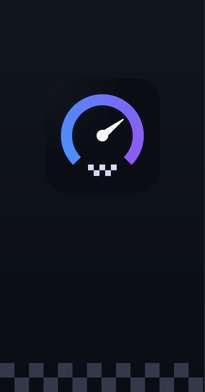
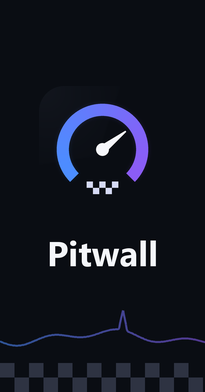
Instalador: telas de boas-vindas/fim com a marca, fundo com traço de telemetria e menos cliques
- painel com logo e nome, fundo próprio, textos curtos (PT/EN), sem 'pronto para instalar'
- fecha WirelessBattery/headsetcontrol/PresentMon por nome antes de copiar (o filtro por caminho
  falhava num PowerShell 32-bit e o leitor de bateria travava a atualização)
- o app também encerra leitores de bateria órfãos ao iniciar e mata a árvore inteira no timeout
- modo /DPreview para conferir o visual sem instalar nada

diff --git a/installer/art/make_art.py b/installer/art/make_art.py
@@ -1,48 +1,85 @@
-"""Imagens do instalador (Inno Setup): painel lateral das telas de boas-vindas/fim e ícone do cabeçalho.
-Geradas a partir da logo (assets/logo/pitwall-512.png). Uso: python installer/art/make_art.py (requer Pillow)."""
+"""Imagens do instalador (Inno Setup 6.7+), geradas a partir da logo (assets/logo/pitwall-512.png).
+- wizard-*.png: painel lateral das telas de boas-vindas e de conclusão (pôster com logo e nome)
+- wizard-small-*.png: ícone do cabeçalho das demais telas
+- back.png: fundo da janela inteira (traço de telemetria bem discreto no rodapé)
+Uso: python installer/art/make_art.py   (requer Pillow)"""
+import math
 import os
-from PIL import Image, ImageDraw
+from PIL import Image, ImageDraw, ImageFont, ImageFilter
 
 HERE = os.path.dirname(os.path.abspath(__file__))
 ROOT = os.path.dirname(os.path.dirname(HERE))
 LOGO = Image.open(os.path.join(ROOT, "assets", "logo", "pitwall-512.png")).convert("RGBA")
+FONT = os.path.join(os.environ.get("WINDIR", r"C:\Windows"), "Fonts", "segoeuib.ttf")
 BG = (10, 13, 19)
-BG2 = (17, 21, 30)
-CHECK = (52, 57, 74)  # quadriculado discreto: textura, não destaque
+BLUE = (76, 141, 255)
+VIOLET = (139, 92, 246)
+CHECK = (46, 51, 66)
+
+
+def lerp(a, b, t):
+    return tuple(round(a[i] + (b[i] - a[i]) * t) for i in range(3))
+
+
+def trace(d, W, y0, amp, width, alpha_img=None):
+    """Linha de frametime estilizada (picos pequenos e um grande), gradiente azul → violeta."""
+    pts = []
+    n = 220
+    for i in range(n + 1):
+        x = W * i / n
+        t = i / n
+        y = y0 + math.sin(t * 19) * amp * 0.18 + math.sin(t * 7.3 + 1) * amp * 0.25
+        if 0.58 < t < 0.62:
+            y -= amp * (1 - abs(t - 0.6) / 0.02)  # o pico
+        pts.append((x, y))
+    for i in range(n):
+        d.line([pts[i], pts[i + 1]], fill=lerp(BLUE, VIOLET, i / n) + (255,), width=width)
 
 
 def side(w, h):
-    s = 4  # desenha em 4x e reduz (bordas limpas)
+    s = 4
     W, H = w * s, h * s
-    im = Image.new("RGB", (W, H), BG)
+    im = Image.new("RGBA", (W, H), BG + (255,))
     d = ImageDraw.Draw(im)
-    # Gradiente vertical bem discreto (sem brilho), só para dar profundidade
-    for y in range(H):
-        t = y / H
-        d.line([(0, y), (W, y)], fill=tuple(round(BG2[i] + (BG[i] - BG2[i]) * t) for i in range(3)))
-    # Logo centralizada no terço de cima
-    size = int(W * 0.56)
+    size = int(W * 0.62)
     logo = LOGO.resize((size, size), Image.LANCZOS)
-    im.paste(logo, ((W - size) // 2, int(H * 0.2)), logo)
-    # Faixa quadriculada (bandeira de chegada) no rodapé
+    top = int(H * 0.22)
+    im.alpha_composite(logo, ((W - size) // 2, top))
+    font = ImageFont.truetype(FONT, int(W * 0.17))
+    text = "Pitwall"
+    tw = d.textlength(text, font=font)
+    d.text(((W - tw) / 2, top + size + H * 0.04), text, font=font, fill=(244, 246, 250, 255))
+    # Traço de telemetria e quadriculado no rodapé
+    layer = Image.new("RGBA", (W, H), (0, 0, 0, 0))
+    trace(ImageDraw.Draw(layer), W, H * 0.86, H * 0.05, max(2, s * 2))
+    layer.putalpha(layer.getchannel("A").point(lambda v: v * 0.55))
+    im.alpha_composite(layer)
     q = W // 14
     y0 = H - q * 2
     for row in range(2):
         for col in range(14):
             if (row + col) % 2 == 0:
-                d.rectangle([col * q, y0 + row * q, (col + 1) * q - 1, y0 + (row + 1) * q - 1], fill=CHECK)
-    # Linha fina separando o painel do conteúdo
-    d.rectangle([W - s, 0, W, H], fill=(35, 39, 46))
-    return im.resize((w, h), Image.LANCZOS)
+                d.rectangle([col * q, y0 + row * q, (col + 1) * q - 1, y0 + (row + 1) * q - 1], fill=CHECK + (255,))
+    return im.convert("RGB").resize((w, h), Image.LANCZOS)
 
 
-def small(n):
-    return LOGO.resize((n, n), Image.LANCZOS)
+def back(w, h):
+    s = 2
+    W, H = w * s, h * s
+    im = Image.new("RGBA", (W, H), BG + (255,))
+    layer = Image.new("RGBA", (W, H), (0, 0, 0, 0))
+    trace(ImageDraw.Draw(layer), W, H * 0.80, H * 0.06, 3 * s)
+    soft = layer.filter(ImageFilter.GaussianBlur(6 * s))
+    soft.putalpha(soft.getchannel("A").point(lambda v: v * 0.25))
+    layer.putalpha(layer.getchannel("A").point(lambda v: v * 0.22))
+    im.alpha_composite(soft)
+    im.alpha_composite(layer)
+    return im.convert("RGB").resize((w, h), Image.LANCZOS)
 
 
-# Tamanhos base do estilo "modern" (164x314 e 55x55) em 100/125/150/200% de DPI
 for pct in (100, 125, 150, 200):
     k = pct / 100
     side(round(164 * k), round(314 * k)).save(os.path.join(HERE, f"wizard-{pct}.png"))
-    small(round(55 * k)).save(os.path.join(HERE, f"wizard-small-{pct}.png"))
+    LOGO.resize((round(55 * k), round(55 * k)), Image.LANCZOS).save(os.path.join(HERE, f"wizard-small-{pct}.png"))
+back(1300, 1000).save(os.path.join(HERE, "back.png"))
 print("ok")

diff --git a/src/Pitwall/Battery/BatteryService.cs b/src/Pitwall/Battery/BatteryService.cs
@@ -40,6 +40,7 @@ public sealed partial class BatteryService : IDisposable
     {
         _enabled = enabled;
         if (!Available) return;
+        KillOrphans();
         new Thread(Loop) { IsBackground = true, Name = "Battery", Priority = ThreadPriority.Lowest }.Start();
     }
 
@@ -64,6 +65,23 @@ public sealed partial class BatteryService : IDisposable
         }
     }
 
+    /// <summary>
+    /// Leitores que sobraram de uma execução anterior (ex.: o Pitwall foi fechado à força no meio de uma leitura):
+    /// ficam presos segurando o exe, e uma atualização não consegue substituí-lo. Só os desta pasta.
+    /// </summary>
+    void KillOrphans()
+    {
+        var dir = Path.GetDirectoryName(_exe)!;
+        foreach (var name in new[] { "WirelessBattery", "headsetcontrol" })
+            foreach (var p in Process.GetProcessesByName(name))
+                using (p)
+                    try
+                    {
+                        if (p.MainModule?.FileName is { } f && f.StartsWith(dir, StringComparison.OrdinalIgnoreCase)) p.Kill();
+                    }
+                    catch { }
+    }
+
     void Poll()
     {
         using var p = Process.Start(new ProcessStartInfo(_exe, "--list")
@@ -79,7 +97,8 @@ public sealed partial class BatteryService : IDisposable
         var output = p.StandardOutput.ReadToEndAsync();
         if (!p.WaitForExit(20_000))
         {
-            try { p.Kill(); } catch { }
+            // Árvore inteira: o WirelessBattery pode ter aberto o headsetcontrol
+            try { p.Kill(entireProcessTree: true); } catch { }
             return;
         }
         _devices = Parse(output.Result);
